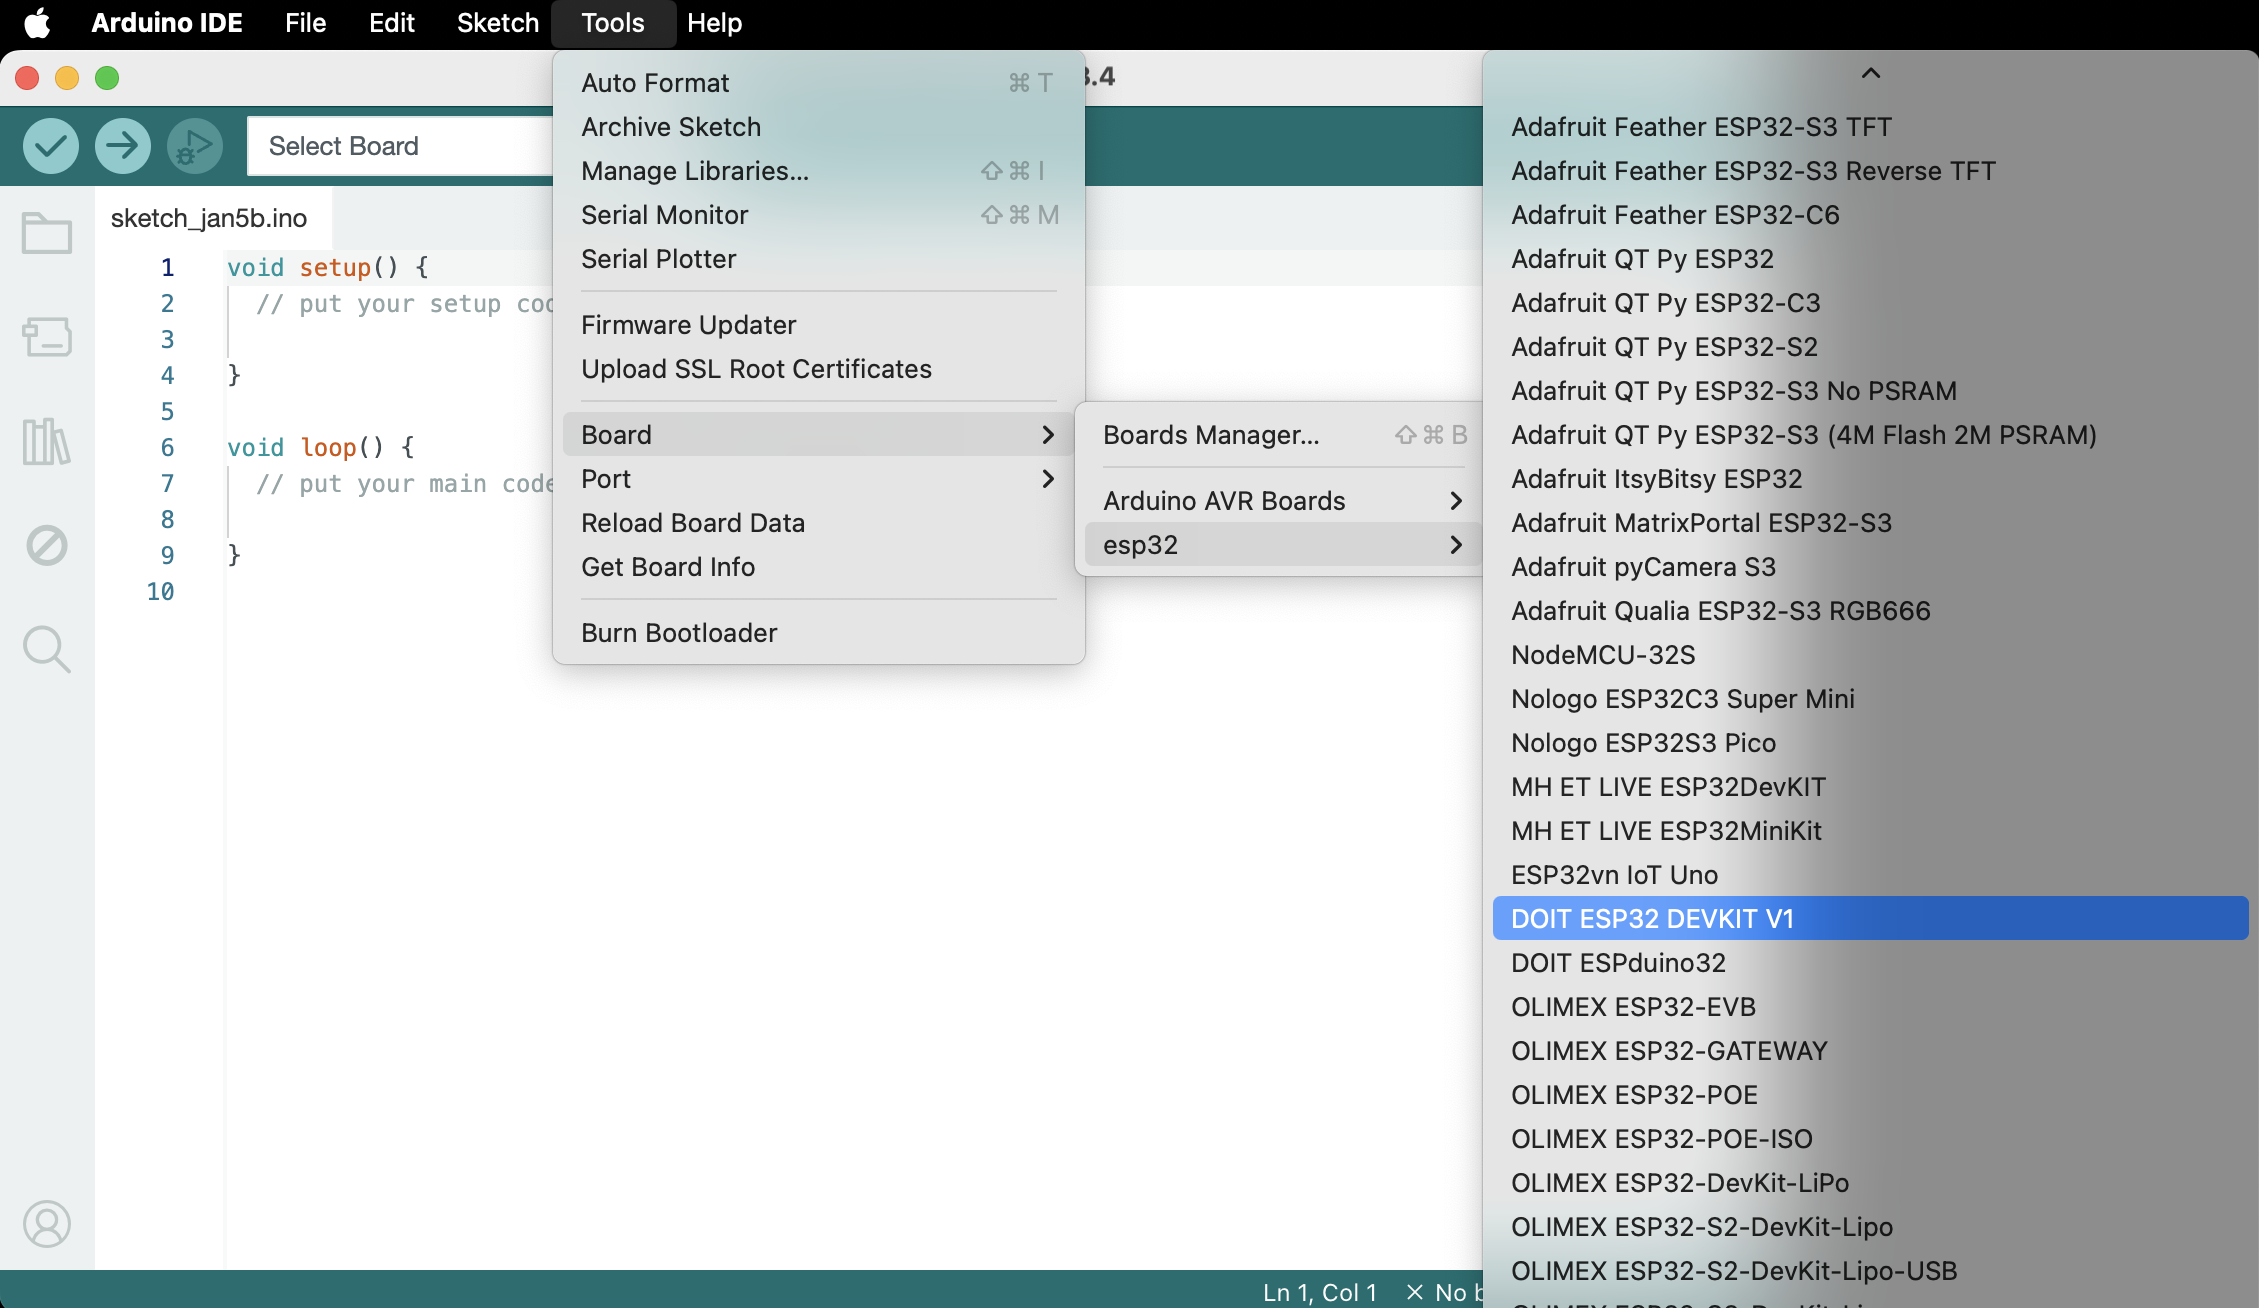
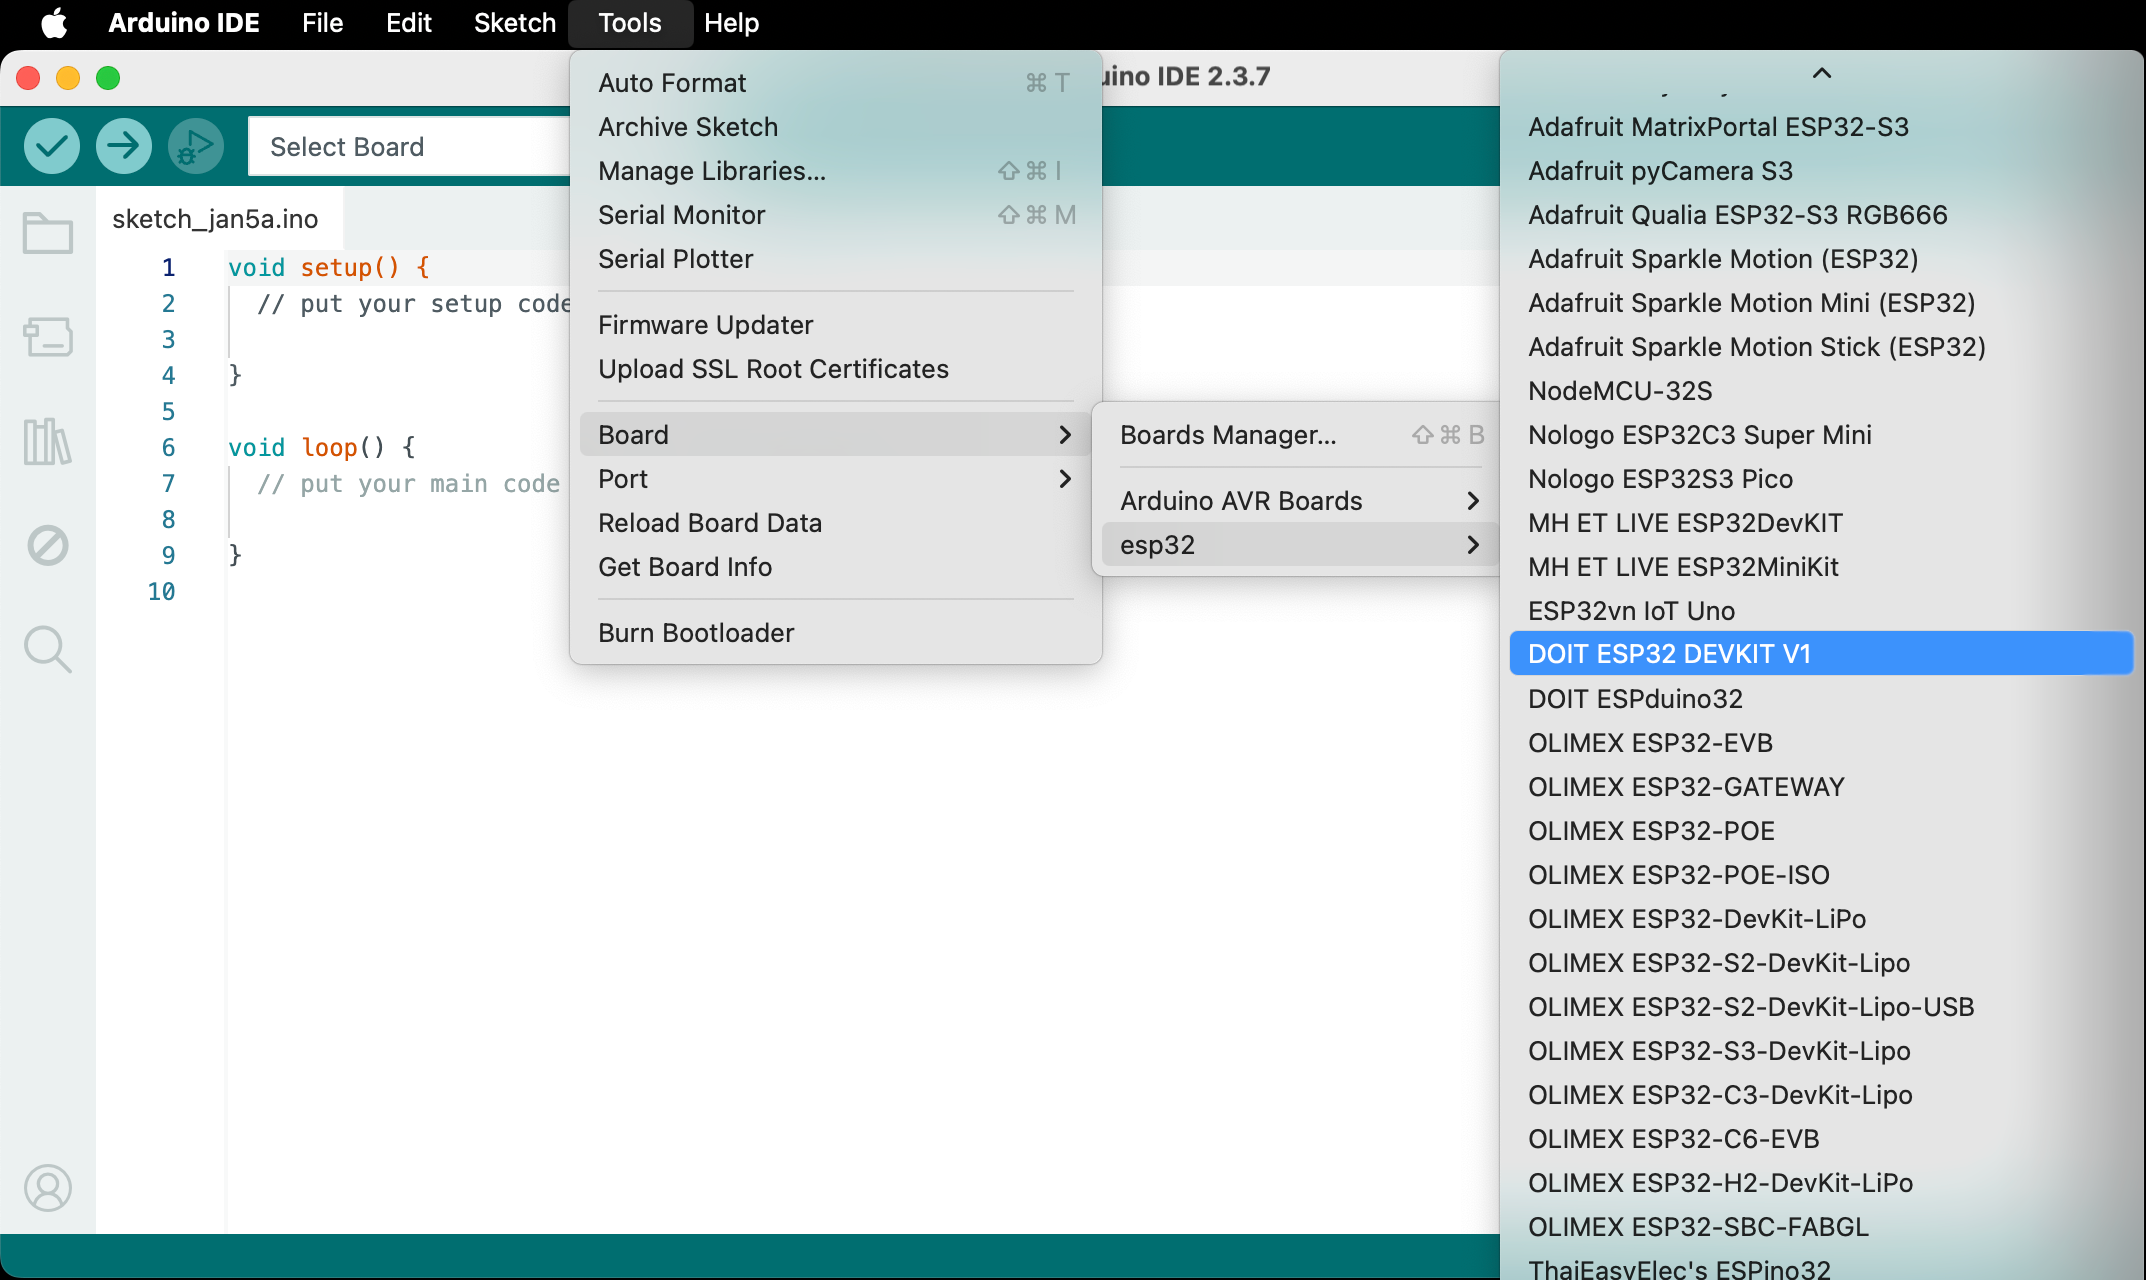
Update testing instructions for R6.3 and Arduino IDE 2.3.7

diff --git a/docs/MSEduino-testing.md b/docs/MSEduino-testing.md
@@ -4,7 +4,7 @@ In order to test the functionality of the MSEduino, test code must be loaded ont
 
 Programs for the [Arduino](https://www.arduino.cc) are called sketches. These are created within an Integrated Development Environment (IDE) for the Arduino. The IDE allows sketches to be written and edited. The language and constructs are similar to C++. It provides functionality to convert (or compile) the human-readable code into instructions that the Arduino hardware understands (machine language). The IDE also facilitates the process of uploading compiled machine code onto the Arduino board. The IDE is available for Windows, Mac OS X and Linux based systems.
 
-To start, Visit the official Arduino website and click on the [Getting Started](https://arduino.cc/en/Guide/HomePage) header. Follow the step-by-step instructions to install the Arduino IDE for the operating system on your laptop or home computer. Once installed, it must be configured for the ESP32 microcontroller. Use a USB-A to USB-micro cable to connect your ESP32 to your computer. Use the **Tools→Board→Boards Manager...** menu to open the boards manager.
+To start, visit [Getting Started with Arduino IDE 2](https://docs.arduino.cc/software/ide-v2/tutorials/getting-started-ide-v2/) on the official Arduino website. Follow the [step-by-step instructions](https://docs.arduino.cc/software/ide-v2/tutorials/getting-started/ide-v2-downloading-and-installing/) to download and install the Arduino IDE for the operating system on your laptop or home computer. Once installed, it must be configured for the ESP32 microcontroller. Use a USB-A to USB-micro cable to connect your ESP32 to your computer. Use the **Tools→Board→Boards Manager...** menu to open the boards manager.
 
 <img src="figs/boards_manager.png" alt="Boards manager" width="80%"/>
 
@@ -26,7 +26,7 @@ To help identify the cause of hangups and errors during the build and upload pro
 
 ## Test Code
 
-The code used to test the MSEduino is hosted in a separate repository on GitHub. It may be found at [https://github.com/MSE2202/MSEduino-R61-Test](https://github.com/MSE2202/MSEduino-R61-Test). You can download (or clone) the entire repository or only the sketch in the **MSEduino-R61-Test folder**.
+The code used to test the MSEduino is hosted in a separate repository on GitHub. It may be found at [https://github.com/MSE2202/MSEduino-R63-Test](https://github.com/MSE2202/MSEduino-R63-Test). You can download (or clone) the entire repository or only the sketch in the **MSEduino-R63-Test folder**.
 
 ### Library Installation
 
@@ -40,7 +40,7 @@ The Adafruit NeoPixel library is a third-party library that can be installed dir
 
 ## Compling and Uploading Test Code
 
-Once the test code has been downloaded and the required library has been installed, use **File→Open...** to navigate to the folder containing the test code and open the file `MSEduino-V61-Test.ino`. This will open all 3 files in the folder, each in a separate tab. With the MSEduino connected and the board and port set correctly, the program can be compiled and uploaded using **Sketch→Upload**. The board will usually program automatically, but sometimes it is necessary to manually enter programming mode. To program, press and hold the reset button, then press and hold program button, release the reset button, and then release the program button.
+Once the test code has been downloaded and the required library has been installed, use **File→Open...** to navigate to the folder containing the test code and open the file `MSEduino-V63-Test.ino`. This will open all 3 files in the folder, each in a separate tab. With the MSEduino connected and the board and port set correctly, the program can be compiled and uploaded using **Sketch→Upload**. The board will usually program automatically, but sometimes it is necessary to manually enter programming mode. To program, press and hold the reset button, then press and hold program button, release the reset button, and then release the program button.
 
 ## MSEduino Testing
 
